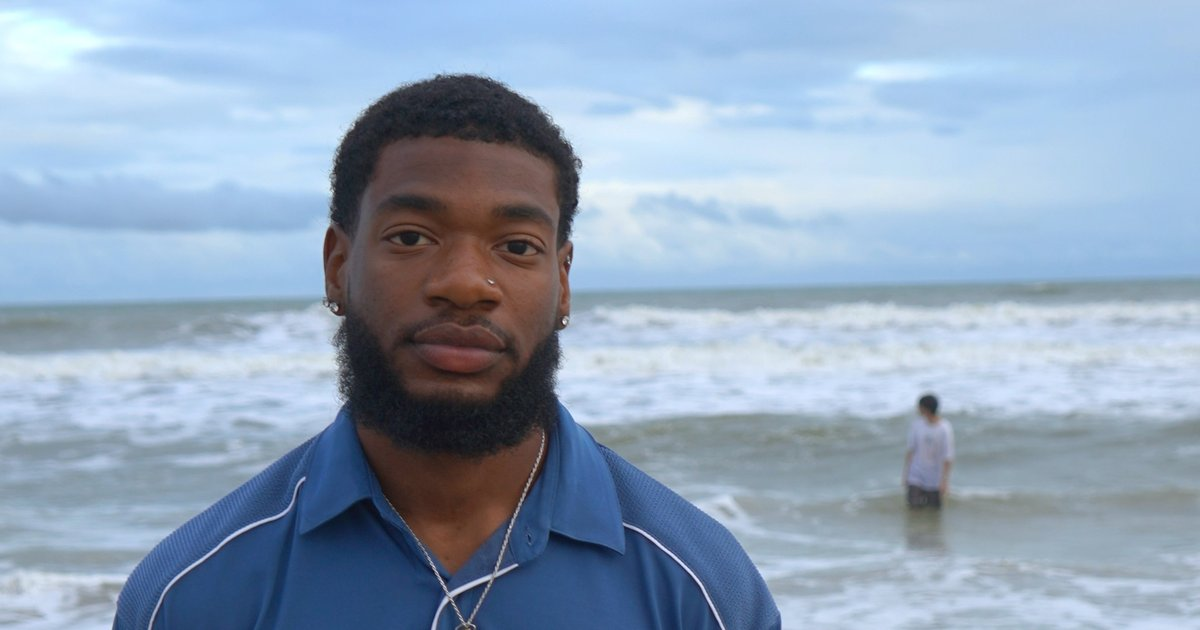
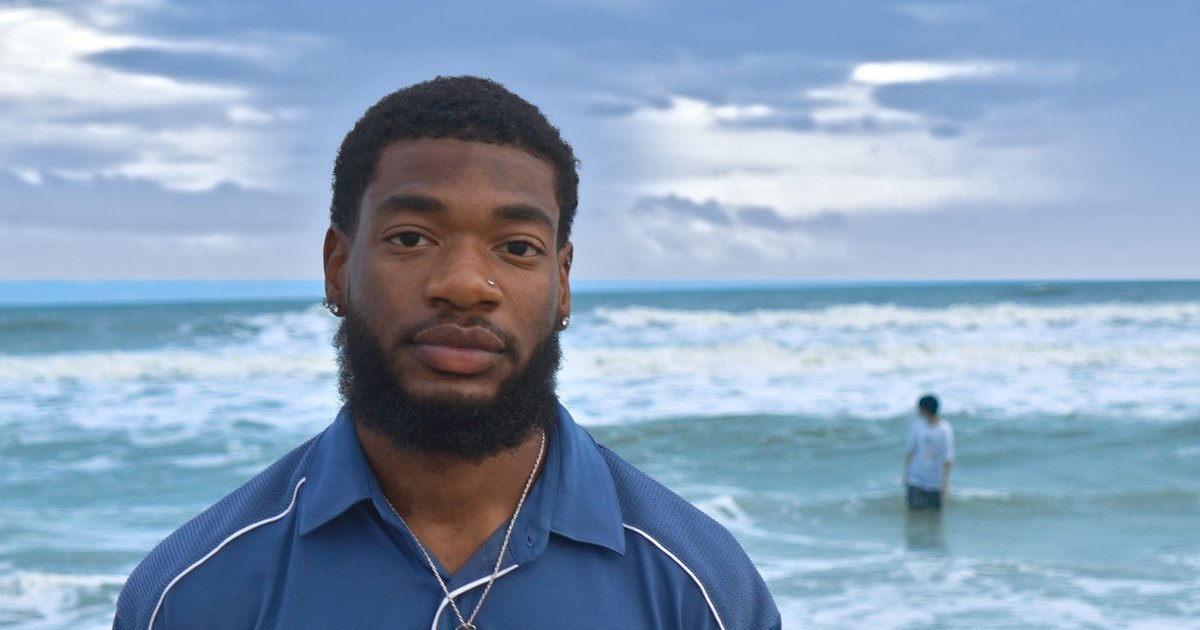
make the beach shot a clear day, keep the name off his face, and add the studio shot to about

diff --git a/style.css b/style.css
@@ -442,24 +442,30 @@ a, button, [role="button"] { touch-action: manipulation; }
   display: block;
 }
 
-/* On wide screens the photo rides a little high, so the name sits under his chin */
-@media (min-width: 800px) {
-  .hero-photo { inset: -9% 0 9% 0; }
+/* Wide screens: the photo stands as a tall panel on the right, showing him from
+   head to waist. The name runs across the bottom of it, over his shirt, and his
+   face stays clear at every screen size. */
+@media (min-width: 900px) {
+  .hero-photo {
+    left: auto;
+    width: min(64vw, 108vh);
+    width: min(64vw, 108svh);
+  }
 }
 
 .hero-photo img {
   width: 100%;
   height: 100%;
   object-fit: cover;
-  object-position: 50% 18%;
+  object-position: 10% 18%;  /* he stands left of the photo's center */
   filter: contrast(1.06) saturate(1.08);
   -webkit-mask-image: linear-gradient(to bottom, #000 0%, #000 50%, rgba(0, 0, 0, 0.45) 74%, transparent 96%);
   mask-image: linear-gradient(to bottom, #000 0%, #000 50%, rgba(0, 0, 0, 0.45) 74%, transparent 96%);
   animation: heroPhoto 2.2s var(--ease-out) both;
 }
 
-@media (min-width: 800px) {
-  .hero-photo img { object-position: 50% 30%; }
+@media (min-width: 900px) {
+  .hero-photo img { object-position: 10% 22%; }
   .hero-name { font-size: clamp(4.2rem, 15.5vw, 14.5rem); }
 }
 
@@ -848,72 +854,71 @@ a, button, [role="button"] { touch-action: manipulation; }
    ============================================================ */
 #about { padding-block: var(--section-pad); }
 
+/* Wide on bigger screens, closer on phones (the page picks the crop) */
+.about-photo-wrap { margin-bottom: clamp(2.25rem, 5vw, 3.75rem); }
+
+.about-photo {
+  width: 100%;
+  height: auto;
+  aspect-ratio: 5 / 4;
+  object-fit: cover;
+  border-radius: var(--radius-art);
+  background: var(--bg-raise);
+}
+
+@media (min-width: 800px) {
+  .about-photo { aspect-ratio: 16 / 9; }
+}
+
+/* The bio on the left; facts and follow links beside it */
 .about-layout {
   display: grid;
   grid-template-columns: minmax(0, 1fr);
   gap: 2.75rem;
 }
 
-.about-photo {
-  width: 100%;
-  aspect-ratio: 4 / 5;
-  object-fit: cover;
-  object-position: 50% 28%;
-  border-radius: var(--radius-art);
+@media (min-width: 900px) {
+  .about-layout {
+    grid-template-columns: minmax(0, 7fr) minmax(0, 4fr);
+    gap: clamp(3rem, 6vw, 6.5rem);
+    align-items: start;
+  }
 }
 
-.about-text .section-heading { margin-bottom: clamp(1.5rem, 3vw, 2.25rem); }
-
 .about-lede {
-  font-size: clamp(1.45rem, 2.5vw, 2.05rem);
+  font-size: clamp(1.5rem, 2.8vw, 2.35rem);
   font-stretch: 108%;
   font-weight: 620;
-  line-height: 1.2;
+  line-height: 1.16;
   letter-spacing: -0.025em;
   text-wrap: balance;
-  margin-bottom: 1.4rem;
+  margin-bottom: 1.5rem;
 }
 
 .about-rest {
-  max-width: 62ch;
-  font-size: 1.04rem;
+  max-width: 64ch;
+  font-size: 1.05rem;
   line-height: 1.75;
   color: var(--text-soft);
   text-wrap: pretty;
 }
 
-.about-facts {
-  display: grid;
-  grid-template-columns: repeat(3, minmax(0, 1fr));
-  margin-top: 2.5rem;
-  border-top: 1px solid var(--line);
+.about-facts { border-top: 1px solid var(--line); }
+
+.about-facts > div {
+  display: flex;
+  justify-content: space-between;
+  align-items: baseline;
+  gap: 1rem;
+  padding: 0.9rem 0;
   border-bottom: 1px solid var(--line);
 }
 
-.about-facts > div { padding: 1.1rem 1rem 1.1rem 0; }
-.about-facts > div + div { padding-left: 1rem; border-left: 1px solid var(--line); }
-.about-facts dt { font-size: 0.8rem; color: var(--muted); margin-bottom: 0.3rem; }
-.about-facts dd { font-size: 1rem; font-weight: 600; line-height: 1.3; font-variant-numeric: tabular-nums; }
-
-/* On phones the facts read as label and value rows */
-@media (max-width: 599px) {
-  .about-facts { grid-template-columns: minmax(0, 1fr); border-bottom: 0; }
-  .about-facts > div,
-  .about-facts > div + div {
-    display: flex;
-    justify-content: space-between;
-    align-items: baseline;
-    gap: 1rem;
-    padding: 0.85rem 0;
-    border-left: 0;
-    border-bottom: 1px solid var(--line);
-  }
-  .about-facts dt { margin-bottom: 0; font-size: 0.88rem; }
-  .about-facts dd { text-align: right; }
-}
+.about-facts dt { font-size: 0.88rem; color: var(--muted); }
+.about-facts dd { font-size: 1rem; font-weight: 600; line-height: 1.3; text-align: right; }
 
 .about-follow-label {
-  margin: 2.25rem 0 0.9rem;
+  margin: 2rem 0 0.9rem;
   font-size: 0.88rem;
   font-weight: 560;
   color: var(--text);
@@ -936,14 +941,6 @@ a, button, [role="button"] { touch-action: manipulation; }
 }
 .follow-icon { display: inline-flex; width: 17px; height: 17px; }
 .follow-icon svg { width: 17px; height: 17px; }
-
-@media (min-width: 800px) {
-  .about-layout {
-    grid-template-columns: minmax(0, 5fr) minmax(0, 6fr);
-    gap: clamp(3rem, 6vw, 6.5rem);
-    align-items: start;
-  }
-}
 
 /* ============================================================
    CONTACT

diff --git a/index.html b/index.html
@@ -69,15 +69,16 @@
 
     <!-- HERO -->
     <section id="hero" aria-label="Intro">
+      <!-- On wide screens the beach behind him fades into the page, so the waves can carry the sea on -->
       <picture class="hero-photo" aria-hidden="true">
         <source
-          media="(min-width: 800px)"
-          srcset="/assets/photos/sywavy-portrait-wide-1280.webp 1280w, /assets/photos/sywavy-portrait-wide-1920.webp 1920w"
-          sizes="100vw"
+          media="(min-width: 900px)"
+          srcset="/assets/photos/sywavy-hero-1000.webp 1000w, /assets/photos/sywavy-hero-1600.webp 1600w, /assets/photos/sywavy-hero-2200.webp 2200w"
+          sizes="64vw"
         />
         <img
           src="/assets/photos/sywavy-portrait-800.webp"
-          srcset="/assets/photos/sywavy-portrait-800.webp 800w, /assets/photos/sywavy-portrait-1400.webp 1400w"
+          srcset="/assets/photos/sywavy-portrait-800.webp 800w, /assets/photos/sywavy-portrait-1400.webp 1400w, /assets/photos/sywavy-portrait-2000.webp 2000w"
           sizes="100vw"
           alt=""
           width="800"
@@ -138,23 +139,34 @@
     <!-- ABOUT -->
     <section id="about" aria-labelledby="aboutHeading">
       <div class="container">
-        <div class="about-layout">
-          <div class="about-photo-wrap animate-on-scroll">
+        <div class="section-head">
+          <h2 id="aboutHeading" class="section-heading">About</h2>
+        </div>
+        <div class="about-photo-wrap animate-on-scroll">
+          <picture>
+            <source
+              media="(min-width: 800px)"
+              srcset="/assets/photos/sywavy-studio-wide-1280.webp 1280w, /assets/photos/sywavy-studio-wide-2000.webp 2000w"
+              sizes="(min-width: 1440px) 1220px, 92vw"
+              width="1280"
+              height="720"
+            />
             <img
-              src="/assets/photos/sywavy-portrait-800.webp"
-              srcset="/assets/photos/sywavy-portrait-800.webp 800w, /assets/photos/sywavy-portrait-1400.webp 1400w"
-              sizes="(min-width: 1024px) 520px, (min-width: 800px) 42vw, 92vw"
-              alt="SyWavy standing on the beach in Saint Petersburg"
+              src="/assets/photos/sywavy-studio-800.webp"
+              srcset="/assets/photos/sywavy-studio-800.webp 800w, /assets/photos/sywavy-studio-1200.webp 1200w"
+              sizes="92vw"
+              alt="SyWavy, on the right, posing in front of a white backdrop"
               class="about-photo"
               width="800"
-              height="1200"
+              height="640"
               loading="lazy"
               decoding="async"
             />
-          </div>
-          <div class="about-text animate-on-scroll">
-            <h2 id="aboutHeading" class="section-heading">About</h2>
-            <div id="aboutBio" class="about-bio"></div>
+          </picture>
+        </div>
+        <div class="about-layout">
+          <div id="aboutBio" class="about-bio animate-on-scroll"></div>
+          <div class="about-side animate-on-scroll">
             <dl id="aboutFacts" class="about-facts"></dl>
             <p class="about-follow-label">Follow SyWavy</p>
             <div id="aboutSocials" class="follow-links"></div>

diff --git a/waves.js b/waves.js
@@ -22,6 +22,9 @@
   // Pages with a hero (the home page, and the 404 which asks for it) start with the
   // lines up behind the name. Every other page starts with them already settled low.
   const heroMode = !!document.getElementById('hero') || document.body.dataset.waves === 'hero';
+  // On wide screens the home page photo fades out on the left, and the lines start
+  // at the photo's sea level there, so the ocean carries on into the dark as lines
+  const seaLevel = !!document.getElementById('hero');
 
   const LINES = 9;
   const TEAL = [86, 226, 211];
@@ -54,7 +57,8 @@
 
     // Behind the name at first, then low and quiet at the bottom of the screen
     const small = w < 700;
-    const base = h * ((small ? 0.8 : 0.79) + settle * 0.13);
+    const start = seaLevel && w >= 900 ? 0.43 : (small ? 0.8 : 0.79);
+    const base = h * (start + settle * (0.92 - start));
     const fade = 1 - settle * 0.45;
     const gap = small ? 7 : 10;
     const amp1 = small ? 16 : 26;
@@ -62,9 +66,12 @@
     const k1 = (Math.PI * 2) / Math.max(w * 0.95, 520);
     const k2 = (Math.PI * 2) / Math.max(w * 0.38, 240);
 
+    // teal to blue across the screen, easing in and out at the edges
     const grad = ctx.createLinearGradient(0, 0, w, 0);
-    grad.addColorStop(0, `rgb(${TEAL})`);
-    grad.addColorStop(1, `rgb(${BLUE})`);
+    grad.addColorStop(0, `rgba(${TEAL},0)`);
+    grad.addColorStop(0.12, `rgba(${TEAL},1)`);
+    grad.addColorStop(0.88, `rgba(${BLUE},1)`);
+    grad.addColorStop(1, `rgba(${BLUE},0)`);
     ctx.strokeStyle = grad;
     ctx.lineWidth = 1;
 
